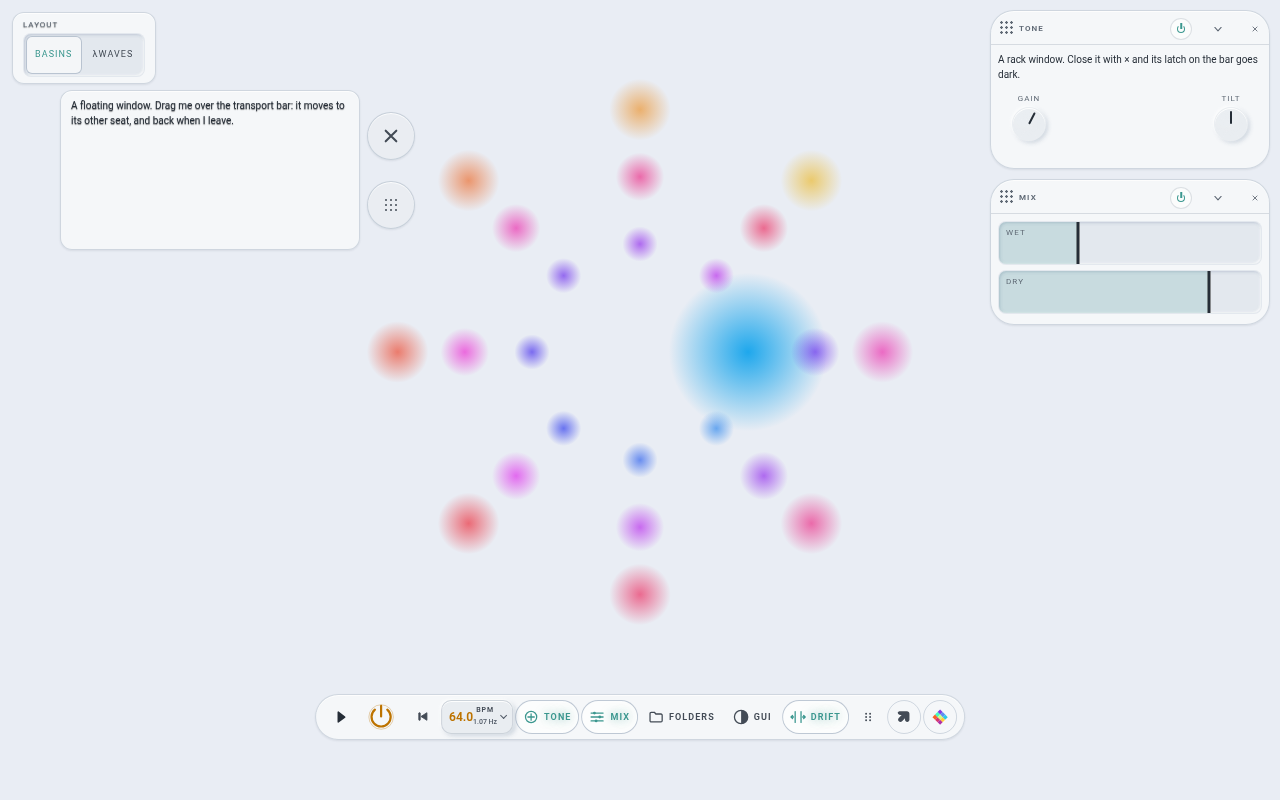
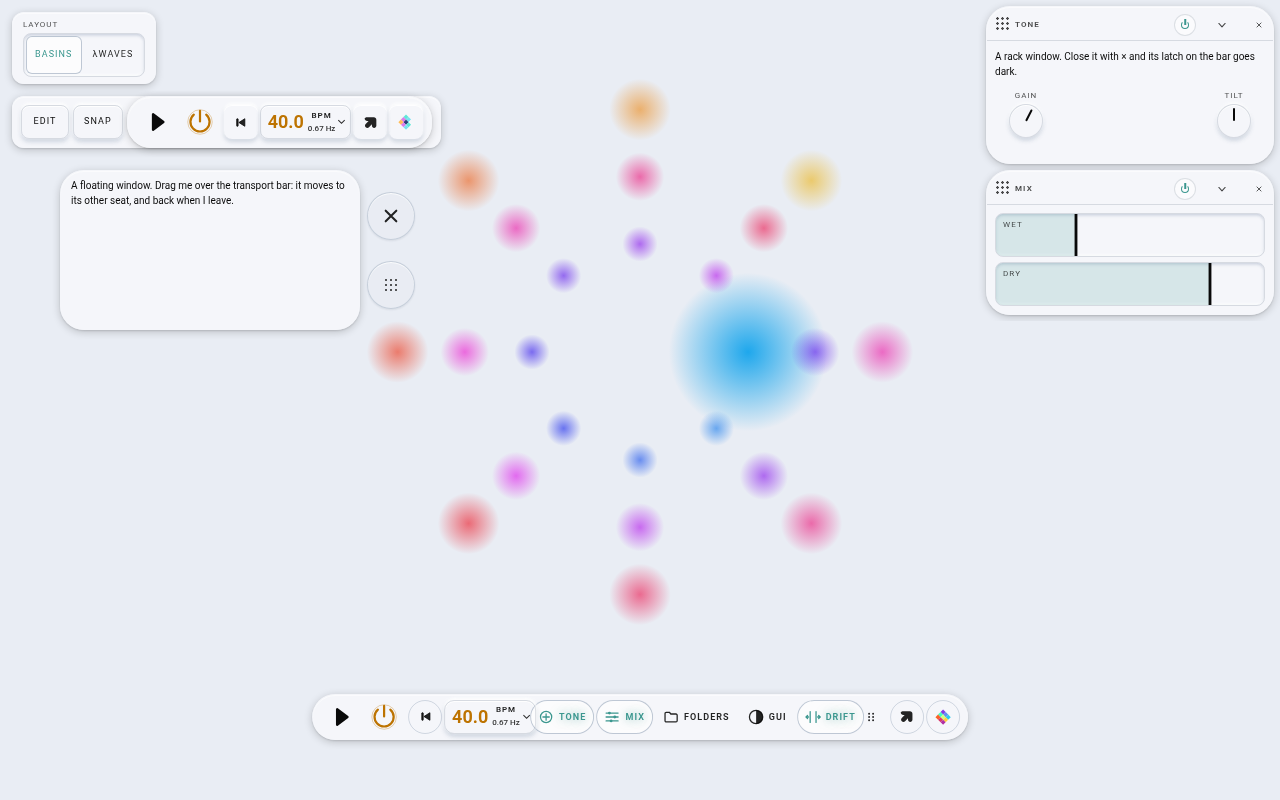
MIR 1.5.0-alpha.5: the transport — BASINS' bigger tempo and play
BASINS ui-fixes 8-11 (Josh 2026-10-01): the tempo 18 px (was 12), BPM/Hz 8 px (was 7),
the pill sized to its number (72 -> ~92 px); play's glyph 32 px (was 20) in a 40 px seat,
no face; to-start wears the dock chip's and the logo's hairline ring. New
createTransport({ bar: 'work' }): inside a work bar the to-start, send-to-rack and logo
seats take the bar's button face (.trig, 34 px, radius 8), 52 px tall with 3 px padding;
shown in a mock work bar on the gallery. COMPACT: play 22 px in 30, tempo 14 px.
Fix: two bars on a page shared one paint key. The pill-background test expects BASINS'
glass-faces drawing (both clear). 33/33 browser checks.

Claude-Session: https://claude.ai/code/session_01216PZJdRDXuZKuuo4X6KUw

diff --git a/mir/shell/transport.css b/mir/shell/transport.css
@@ -26,11 +26,16 @@
   --xport-h: 46px;                   /* the bar's height (BASINS: the modulation work bar's) */
   --xport-seat: 34px;                /* a round seat (BASINS skin.css:78) */
   --xport-power: 44px;               /* the power button's seat (BASINS transport-controls.css:17) */
-  --xport-pill-w: 72px;              /* the BPM pill (BASINS skin.css:447) */
+  --xport-pill-w: 72px;              /* the BPM pill's least width; it sizes to its number (BASINS ui-fixes 9: ≈ 90 px) */
   --xport-pill-r: 10px;              /* its corner (BASINS skin.css:87) */
   --xport-radius: 16px;              /* the bar's corner when CORNERS is at home (BASINS skin.css:66) */
-  --xport-num-size: 12px;            /* the tempo's number (BASINS skin.css:450) */
-  --xport-micro: 7px;                /* BPM and the Hz reading (BASINS skin.css:451–452) */
+  --xport-num-size: 18px;            /* the tempo's number (BASINS ui-fixes 9, --xport-tempo-size; was 12) */
+  --xport-micro: 8px;                /* BPM and the Hz reading (BASINS ui-fixes 9; was 7) */
+  --xport-play-size: 32px;           /* play's glyph (BASINS ui-fixes 10, --xport-play-size; was 20); its seat is the glyph + 8 */
+  --xport-work-seat: 34px;           /* a seat inside a work bar: the bar's button (BASINS ui-fixes 8, .tl-action) */
+  --xport-work-r: 8px;               /* … its corner */
+  --xport-work-h: 52px;              /* the transport inside a work bar: the tool bar's height (BASINS ui-fixes 8) */
+  --xport-work-pad: 3px 8px;         /* … and its padding (BASINS timeline-window.css: 44 px power seat + border = 52) */
   --xport-face: hsl(var(--glass-tint) / 1);                                   /* the pill's face: it stands proud */
   --xport-pill-rim: var(--glass-hairline);                                    /* the pill's hairline (BASINS) */
   --xport-pill-rim-hot: color-mix(in srgb, var(--acc2) 60%, transparent);     /* hovered / focused (BASINS skin.css:448) */
@@ -78,9 +83,9 @@
 .mir-transport :is(.tbtn, .dock-btn, .mod-exp, .transport-tempo-input):focus-visible { outline: var(--state-focus, 2px solid var(--acc)); outline-offset: 2px; }
 
 /* play: no face at all; its ink lights in accent A (BASINS transport-controls.css:3–14) */
-.mir-transport .tbtn.play { width: var(--xport-seat); color: var(--fg-soft); }
+.mir-transport .tbtn.play { width: calc(var(--xport-play-size) + 8px); height: calc(var(--xport-play-size) + 8px); min-height: calc(var(--xport-play-size) + 8px); color: var(--fg-soft); }
 .mir-transport .tbtn.play:is(.on, :hover) { background: transparent; color: var(--acc); }
-.mir-transport .tbtn.play svg { width: 20px; height: 20px; transition: transform var(--t-fast); }
+.mir-transport .tbtn.play svg { width: var(--xport-play-size); height: var(--xport-play-size); transition: transform var(--t-fast); }
 .mir-transport .tbtn.play:hover svg { transform: scale(1.08); }
 .mir-transport .tbtn.play:active svg { transform: scale(.94); }
 
@@ -97,20 +102,21 @@
 .mir-transport .mir-mod-power:active .mir-power-icon { transform: scale(.94); }
 .mir-transport .tbtn.mir-mod-power:focus-visible { outline: 1px solid var(--acc2); outline-offset: 2px; border-radius: var(--r-md); }
 
-/* the dock chip and the door to the modulation window (λWAVES lab.css:320–326, BASINS lab.css:327–333; no pane float) */
-.mir-transport :is(.dock-btn, .mod-exp) {
+/* the dock chip, the door to the modulation window and to-start: one set of round seats with a hairline ring (λWAVES
+   lab.css:320–326, BASINS lab.css:327–333 and ui-fixes 11; no pane float — INTENT) */
+.mir-transport :is(.dock-btn, .mod-exp, .tbtn.transport-home) {
   flex: 0 0 auto; width: var(--xport-seat); height: var(--xport-seat); padding: 0; border-radius: 50%; cursor: pointer;
   border: var(--glass-border) solid var(--glass-border-color); background: transparent; box-shadow: var(--xport-flat); color: var(--ink-key, var(--fg-soft));
   display: inline-flex; align-items: center; justify-content: center;
 }
 .mir-transport :is(.dock-btn, .mod-exp) > svg { width: 13px; height: 13px; filter: var(--xport-glyph-lift); }
 .mir-transport .mod-exp > svg.mark { width: 16px; height: 16px; }
-.mir-transport :is(.dock-btn, .mod-exp):hover { color: var(--fg); }
-.mir-transport :is(.dock-btn, .mod-exp):active { background: var(--state-press, var(--glass-press)); }
+.mir-transport :is(.dock-btn, .mod-exp, .tbtn.transport-home):hover { color: var(--fg); }
+.mir-transport :is(.dock-btn, .mod-exp, .tbtn.transport-home):active { background: var(--state-press, var(--glass-press)); }
 
 /* ── the BPM pill (BASINS skin.css:447–454); its rest is RAISED, not a well (INTENT, ruled) ─────────────────── */
 .mir-transport .tbtn.tempo-expand {
-  position: relative; order: 8; flex: 0 0 var(--xport-pill-w); width: var(--xport-pill-w); min-width: var(--xport-pill-w); height: var(--xport-seat); padding: 4px 15px 4px 7px;
+  position: relative; order: 8; flex: 0 0 auto; width: auto; min-width: var(--xport-pill-w); height: var(--xport-seat); padding: 4px 15px 4px 7px;
   display: grid; grid-template-columns: minmax(0, 1fr) auto; grid-template-rows: 1fr 1fr; column-gap: 4px; align-items: center;
   border: var(--glass-border) solid var(--xport-pill-rim); border-radius: var(--xport-pill-r);
   background: var(--xport-face); box-shadow: var(--relief-raise, var(--neu-raise)); color: var(--fg-soft); touch-action: none; cursor: ns-resize;
@@ -159,10 +165,20 @@
 .mir-transport .ro-val { color: var(--ink-key, var(--fg-soft)); font-size: var(--fs-micro); line-height: 1.15; white-space: nowrap; max-width: 100%; overflow: hidden; text-overflow: ellipsis; }
 
 /* ── COMPACT (ruled 2026-10-01): glyphs only, no TAP, no Hz reading ───────────────────────────────────────── */
-.mir-transport[data-form="compact"] { --xport-w: 0px; --xport-h: 40px; --xport-seat: 30px; --xport-power: 36px; --xport-pill-w: 52px; }
+.mir-transport[data-form="compact"] { --xport-w: 0px; --xport-h: 40px; --xport-seat: 30px; --xport-power: 36px; --xport-pill-w: 52px; --xport-play-size: 22px; --xport-num-size: 14px; }
 .mir-transport[data-form="compact"] :is(.tap, .tempo-hz, .tempo-unit, .tempo-chevron, .tr-open.has-glyph .tr-word, .fd, .ro, .k) { display: none; }
 .mir-transport[data-form="compact"] .tbtn.tempo-expand { grid-template-columns: 1fr; padding: 4px 6px; }
 .mir-transport[data-form="compact"] .tempo-number { justify-self: center; }
+
+/* ── IN A WORK BAR (`createTransport({ bar: 'work' })`, `data-bar="work"`): BASINS' timeline-mounted transport.  It sits
+   in the bar's flow, 52 px tall with 3 px of padding; to-start, send-to-rack and the logo carry `.trig` (the kit's button
+   face and relief) in the bar's 34 px, radius-8 box, so the GUI's look paints both bars alike (BASINS ui-fixes 8, 11) ── */
+.mir-transport[data-bar="work"] { position: static; transform: none; z-index: auto; width: max-content; min-width: 0; max-width: 100%;
+  height: auto; min-height: var(--xport-work-h); padding: var(--xport-work-pad); }
+.mir-transport[data-bar="work"] :is(.dock-btn, .mod-exp, .tbtn.transport-home).trig {
+  width: var(--xport-work-seat); height: var(--xport-work-seat); min-width: var(--xport-work-seat); min-height: var(--xport-work-seat); padding: 0;
+  border: 0; border-radius: var(--xport-work-r); background: var(--trig-face); box-shadow: var(--relief-raise, var(--neu-raise)); }
+.mir-transport[data-bar="work"] .tbtn.tempo-expand { height: var(--xport-work-seat); border-radius: var(--xport-work-r); }
 
 /* ── DOCKED: the bar in the rack's TRANSPORT window (BASINS / λWAVES lab.css:317) ──────────────────────────── */
 .mir-transport.docked { position: static; transform: none; min-width: 0; max-width: none; width: auto; height: auto; flex-wrap: wrap; padding: 6px; gap: 6px;

diff --git a/mir/shell/transport.js b/mir/shell/transport.js
@@ -55,6 +55,12 @@ const SEAT_HINT = { bottom: phrase('the bar at the bottom centre'), top: phrase(
 const PLAY_ACTION = 'transport.play';
 /** the rack window the bar docks into (BASINS / λWAVES `device({ id: 'transport', eyebrow: 'TRANSPORT' })`) */
 export const DOCK_ID = 'transport';
+/** the seats that wear a work bar's button face when the bar sits in one (BASINS transport-placement.js BAR_SEATS:
+ *  to-start, send-to-rack and the logo take `.trig` — the kit's button face — with the bar's 34 px, radius-8 box) */
+export const BAR_SEATS = '.transport-home, .dock-btn, .mod-exp';
+/** the bars a transport can sit in: 'float' (on the stage, BASINS `#transport.mini`) or 'work' (inside a work bar,
+ *  BASINS `timeline-mounted`: its seats are the bar's buttons) */
+export const BARS = Object.freeze(['float', 'work']);
 const SVG = 'http://www.w3.org/2000/svg';
 
 /* ── the pure part ─────────────────────────────────────────────────────────────────────────────────────────── */
@@ -431,6 +437,7 @@ export function layoutNames(list) {
 /* the docked seat: the bar in a rack window named TRANSPORT (BASINS transport-placement.js `docked`).  One window per
    rack, registered once; its hooks are forwarded to whichever bar is alive. */
 const docks = new WeakMap();
+let bars = 0;                                                       // bars made on this page (each paints under its own key)
 function dockOf(R) {
   let d = docks.get(R);
   if (!d) {
@@ -449,10 +456,12 @@ function dockOf(R) {
  *    clock       the ONE TRUE PLAY's clock: { play(), pause(), isPlaying(), toggle?(), onChange?(fn), seek?(beat) }
  *    mod         the modulation seam (installModulation's result): the power button, the door, the panel's clock tiles
  *    model, setBpm, persist   the tempo (createTempo)
+ *    bar         'float' (default: on the stage) or 'work' (inside a work bar: the to-start, send-to-rack and logo seats
+ *                take the bar's own button face, 34 px with radius 8, and the bar's padding is 3 px — BASINS' timeline)
  *    openers, rack, keys, store, key, opener, onRefused, onInterface, host, root, id — as in docs/TRANSPORT.md */
 export function createTransport({ layout = BASINS_LAYOUT, nodes = {}, host = globalThis.document && document.body, root = null, id = 'transport',
   clock = null, mod = null, model = MOD, setBpm = null, persist = null, openers = [], rack = null, keys = null, store = null,
-  key = 'mir.transport', opener = true, onRefused = null, onInterface = null } = {}) {
+  key = 'mir.transport', opener = true, onRefused = null, onInterface = null, bar: barKind = 'float' } = {}) {
   const doc = host.ownerDocument, view = doc.defaultView, body = doc.body;
   const life = new AbortController(), on = { signal: life.signal }, signal = life.signal;
   const S = store || localSeatStore(key);
@@ -484,7 +493,7 @@ export function createTransport({ layout = BASINS_LAYOUT, nodes = {}, host = glo
       case 'openers': openBox = el('div', 'tr-openers'); return openBox;
       case 'seat': seatB = tbtn('tr-seat'); setGlyph(seatB, 'grip', { label: 'Choose where the transport sits', size: 16 });
         seatB.title = 'Where the transport sits'; seatB.setAttribute('aria-haspopup', 'menu'); seatB.setAttribute('aria-expanded', 'false'); return seatB;
-      case 'dock': if (!rackOf() && typeof rack !== 'function') return null;
+      case 'dock':
         dockB = el('button', 'dock-btn'); dockB.type = 'button'; setGlyph(dockB, 'north', { label: 'Dock the transport into the rack' });
         dockB.title = 'Move the transport between the stage and the rack'; dockB.setAttribute('aria-pressed', 'false'); return dockB;
       case 'back': return null;                                     // the way back is always the bar's last child
@@ -507,6 +516,10 @@ export function createTransport({ layout = BASINS_LAYOUT, nodes = {}, host = glo
   place(layout, bar);
   const back = wayBack({ run: () => { if (onInterface) onInterface(); else { const R = rackOf(); if (R && typeof R.setInterface === 'function') R.setInterface(true); else body.classList.remove('ui-hidden'); } }, signal });
   bar.appendChild(back.root);
+  /* in a work bar, the round seats are the bar's buttons (BASINS transport-placement.js barFace) */
+  const work = barKind === 'work';
+  setAttr(bar, 'data-bar', work ? 'work' : 'float');
+  for (const b of bar.querySelectorAll(BAR_SEATS)) b.classList.toggle('trig', work);
 
   /* ── the latches, from data, redrawn only when the list changes ── */
   let latches = [], latchSig = '';
@@ -633,7 +646,8 @@ export function createTransport({ layout = BASINS_LAYOUT, nodes = {}, host = glo
     for (const p of parts) p.sync();
     for (const l of latches) l.p.sync();
   }
-  const soon = () => frame.coalesce('mir.transport.sync', sync);
+  const syncKey = 'mir.transport.sync:' + (++bars);                 // one paint per bar: two bars on a page never share a job
+  const soon = () => frame.coalesce(syncKey, sync);
   view.addEventListener('click', soon, on);
   view.addEventListener('keyup', soon, on);
   doc.addEventListener('devopen', soon, on);
@@ -671,7 +685,7 @@ export function createTransport({ layout = BASINS_LAYOUT, nodes = {}, host = glo
       const R = rackOf(); const d = R && docks.get(R); if (d) { d.open = null; d.close = null; }
       if (docked && bar.parentElement !== stageHost) stageHost.appendChild(bar);
       for (const n of made) n.remove();
-      if (!made.includes(bar)) { bar.textContent = ''; bar.classList.remove('mir-transport', 'mini', 'docked', 'tempo-open'); for (const a of ['data-home', 'data-form']) bar.removeAttribute(a); delete bar.dataset.opener; }
+      if (!made.includes(bar)) { bar.removeAttribute('data-bar'); bar.textContent = ''; bar.classList.remove('mir-transport', 'mini', 'docked', 'tempo-open'); for (const a of ['data-home', 'data-form']) bar.removeAttribute(a); delete bar.dataset.opener; }
     },
   };
 }

diff --git a/gallery/transport.html b/gallery/transport.html
@@ -36,6 +36,9 @@
   #winlayer > * { pointer-events: auto; }
   .g-note { font-size: var(--fs-small); color: var(--fg-soft); line-height: 1.5; margin: 0 0 6px; }
   #layoutSwitch { position: absolute; left: 12px; top: 12px; z-index: 31; padding: 6px 10px; border-radius: var(--r-lg); }
+  /* a mock WORK BAR (BASINS' timeline tool bar): two ordinary work-bar buttons beside a transport in its `work` form */
+  #workbar { position: absolute; left: 12px; top: 96px; z-index: 31; display: flex; align-items: center; gap: 4px; height: 52px; padding: 4px 8px; box-sizing: border-box; border-radius: var(--r-lg); }
+  #workbar > .trig { height: 34px; min-height: 34px; padding: 0 10px; border-radius: 8px; }
 </style>
 </head>
 <body data-theme="dark" data-card="tinted" class="disconnected">
@@ -43,6 +46,7 @@
   <div id="stage"><canvas id="ground" aria-hidden="true"></canvas></div>
   <div id="layoutSwitch" class="glass"></div>
   <div id="transport"></div>
+  <div id="workbar" class="glass"><button class="trig g-wb" type="button" data-wb="edit"><span class="trig-l">EDIT</span></button><button class="trig g-wb" type="button" data-wb="snap"><span class="trig-l">SNAP</span></button><div id="transportWork"></div></div>
   <div id="winlayer"></div>
 </div>
 <script type="module">
@@ -176,7 +180,11 @@ $('layoutSwitch').appendChild(seg({ label: 'LAYOUT', value: layoutName, options:
 frame.coalesce('gallery:draw', draw);   // after the GUI's preferences have painted the theme
 
 if (q.get('lang')) { addLocales(new URL('../mir/locales/', location.href).href); await setLanguage(q.get('lang')); }
-window.__T = { tr, rack, mod, folders, gui, drift, clock, keys, perf, motion, M, first, flip, get beats() { return beats; }, get layout() { return layoutName; } };
+/* ── the same parts in a work bar: `bar: 'work'` — to-start, send-to-rack and the logo take the bar's button face ── */
+const work = createTransport({ root: $('transportWork'), bar: 'work', opener: false, clock, mod, key: 'mir.gallery.transport.work',
+  layout: [{ group: 'native-play-row', items: ['play', 'power', 'rewind', 'tempo'] }, 'dock', 'door'] });
+work.start();
+window.__T = { work, tr, rack, mod, folders, gui, drift, clock, keys, perf, motion, M, first, flip, get beats() { return beats; }, get layout() { return layoutName; } };
 window.__ready = true;
 </script>
 </body>

diff --git a/docs/TRANSPORT.md b/docs/TRANSPORT.md
@@ -72,22 +72,25 @@ It returns `{ root, layout, parts, el: { play, power, door, pill, field, panel, 
 |---|---|
 | The bar on the stage: `#transport.mini`, 46 px tall, 60 px up from the bottom, centred, 640 px wide (wider when its parts need it), 2 px gaps | BASINS' |
 | The round seats: 34 px, flat, `--ink-key`; hover is a lighter face and `--fg` | BASINS' |
-| **Play**: no face; its ink lights in accent A while playing; the glyph swaps ▶ / ❚❚ and scales 1.08 on hover, .94 when pressed; `aria-label` "Play or pause" | BASINS' |
+| **Play**: no face and no ring; its glyph is 32 px (`--xport-play-size`, was 20) in a 40 × 40 seat (the glyph + 8); its ink lights in accent A while playing; the glyph swaps ▶ / ❚❚ and scales 1.08 on hover, .94 when pressed; `aria-label` "Play or pause" | BASINS' (ui-fixes 10, Josh 2026-10-01: "way bigger and still have no background") |
 | **Play is the only thing that starts or stops time** | ruled by Josh 2026-10-01 |
 | **Modulation's power**: the ring-and-stem glyph in a 44 px seat; off, the ring opens and dims; on, it closes and lights in accent B with its halo; a press is `mod.arm(!mod.armed())`, BASINS' `toggleModulation` | BASINS' (and ruled by Josh 2026-10-01: a power button, not a play) |
 | **The door** to the modulation window: the MIR mark in a 34 px round seat with a hairline (`.mod-exp.mod-logo`) | BASINS' / λWAVES' |
-| **The BPM pill**: 72 px, the number in accent B (12 px), BPM and the Hz reading (7 px), the chevron, a hairline that warms to accent B on hover and when the panel is open | BASINS' |
+| **The BPM pill**: sized to its number, at least 72 px (about 92 px at 30.0); the number in accent B at 18 px (`--xport-num-size`, was 12), BPM and the Hz reading 8 px (was 7), the chevron, a hairline that warms to accent B on hover and when the panel is open. The digit under the pointer is read from the number's own glyph boxes, so the drag and the wheel follow the size | BASINS' (ui-fixes 9, Josh 2026-10-01: "increase the size of the BPM thingy") |
 | The pill's drag (the digit under the pointer is the step; 9 px a step, a finger 14 px in ones), its wheel (by the digit under the pointer), its keys (↑ → up, ↓ ← down, Shift a tenth, PageUp/PageDown ten) | BASINS' |
 | A click on the pill opens the **tempo panel**: TAP, WALL / FREE, the cadence, ÷2 ×2 ×4 (hold to bend, tap to latch), HOLD ¼, HOLD 1 | BASINS' (λWAVES has the same panel) |
 | **TAP's place**: in the tempo panel | BASINS' |
 | **The resting pill stands proud** (its own face and the raised relief), not a well | ruled by Josh 2026-10-01 (INTENT: BASINS' rested in a well and read as already pressed) |
 | A double click on the pill types the tempo, in a well in the pill's seat (Enter or leaving takes it, Escape does not) | the kit's (BASINS types the tempo only in its timeline form) |
 | **The dock chip** (`.dock-btn`, the north glyph): the bar goes into a rack window named TRANSPORT and back | BASINS' / λWAVES' |
-| The dock chip and the door wear no pane shadow | ruled (INTENT: a button never wears a pane's float; BASINS gave them `--glass-shadow`) |
+| **To-start** (`.transport-home`) is one of the round seats: 34 px with the dock chip's and the door's hairline ring | BASINS' (ui-fixes 11, Josh 2026-10-01) |
+| The dock chip, the door and to-start wear no pane shadow | ruled (INTENT: a button never wears a pane's float; BASINS gave them `--glass-shadow`) |
+| **In a work bar** (`bar: 'work'`): to-start, send-to-rack and the logo take the bar's button face (`.trig`) in a 34 × 34, radius-8 box; the pill is 34 px tall; the transport is 52 px tall with 3 px padding | BASINS' (ui-fixes 8 and 11, Josh 2026-10-01: "match the button style and size of the right work bar") |
 | The dodge: the bottom seat unless a floating window covers it, then the top | BASINS' / λWAVES' (the rack's `dodge`) |
 | **λWAVES' bar**: play, power, rewind, ‹ ›, the scrub as a thin line, ⟳, the stacked readouts, the small RATE knob, the pill, then dock and door | λWAVES' (lab/rack.js §25, skin.css §12), with its MOD word replaced by the power button (ruled) |
 | **The window latches** (a glyph and a word; lit with the frost face and the label in accent A; a press toggles the window) | ruled by Josh 2026-10-01 (the kit's) |
 | **The seats BOTTOM, TOP, COMPACT** and the ⠿ menu (a right click or a long press opens it too); COMPACT: glyphs only, no TAP, no Hz reading | ruled by Josh 2026-10-01 (the kit's) |
+| COMPACT's sizes (40 px tall): play's glyph 22 px in a 30 px seat, the tempo 14 px, the pill at least 52 px | the kit's (not ruled) |
 | **The way back** under H on a touch screen | ruled by Josh 2026-10-01 (the kit's) |
 | The focus ring on the seats (`--state-focus`), and on the power button BASINS' 1 px accent-B outline | the kit's / BASINS' |
 
@@ -109,6 +112,10 @@ Every look value of the bar is the kit's, so the GUI window restyles it with no 
 | SHADOW, the tier | flat tier: no shadow, no blur, no relief | `--surface-shadow`, the tier's tokens |
 
 `tests/transport.browser.mjs` checks every row in both layouts. BASINS' own numbers (the bar's width and height, the seats, the pill) are `--xport-*` tokens declared on `.mir-transport`, so a skin can change them.
+
+## In a work bar
+
+`createTransport({ bar: 'work' })` (`data-bar="work"` on the bar; `BARS` is `['float', 'work']`) is BASINS' timeline-mounted transport: the bar sits in its host's flow (no seat, no dodge), 52 px tall with 3 px of padding, and the seats named in `BAR_SEATS` (to-start, send-to-rack, the logo) carry `.trig`, the kit's button face, so the GUI's look paints them exactly as it paints the work bar's own buttons. `gallery/transport.html` shows one in a mock work bar beside two ordinary work-bar buttons (EDIT, SNAP); the test checks that the three seats match them in size, corner, face and relief. The timeline itself (and its tempo panel opening above or below the bar) is not in the kit yet.
 
 ## The opener law
 
@@ -149,7 +156,7 @@ Every look value of the bar is the kit's, so the GUI window restyles it with no 
 ## Proofs
 
 - `tests/transport.node.mjs` (8 groups): the step under a pointer, the clamp and the tenth, BASINS' drag and keys, a typed tempo, the seats, `firstRun`, the openers, the key-table row, the two layouts (one play each, no second play), `createTempo`.
-- `tests/transport.browser.mjs` on `gallery/transport.html`, real CDP pointer, wheel and keys, every press hit-tested with `elementFromPoint`: first run; 30.0 and 72 px; play runs the clock; **the power button toggles modulation and never the clock, and play never the power**; the drag by tens, tenths and ones; the wheel; BASINS' keys; a click opens the tempo panel and TAP there sets the tempo; a double click types it; the resting pill is not a well and the field is; latches and closing from the window; the door; the dodge; the dock chip, in and out; **the settings check in both layouts** (card, frost, BLUR, CORNERS, RELIEF, the flat tier); the λWAVES layout from the switch, its one play; H; idle; the seat and the layout across a reload; `qps`.
+- `tests/transport.browser.mjs` on `gallery/transport.html`, real CDP pointer, wheel and keys, every press hit-tested with `elementFromPoint`: first run; 30.0; BASINS' new sizes (the tempo 18 px, BPM / Hz 8 px, the pill about 90 px, play's 32 px glyph in a 40 px seat with no face, to-start's ring); the work-bar match; play runs the clock; **the power button toggles modulation and never the clock, and play never the power**; the drag by tens, tenths and ones; the wheel; BASINS' keys; a click opens the tempo panel and TAP there sets the tempo; a double click types it; the resting pill is not a well and the field is (under GLASS faces both are clear, as BASINS draws them); latches and closing from the window; the door; the dodge; the dock chip, in and out; **the settings check in both layouts** (card, frost, BLUR, CORNERS, RELIEF, the flat tier); the λWAVES layout from the switch, its one play; in λWAVES' layout and in COMPACT, after the size change, the wheel on the tens digit, a click opening the panel, and play; H; idle; the seat and the layout across a reload; `qps`.
 - Plates (`MIR_PLATES=1`): `docs/plates/transport/transport-first-run.png`, `transport-basins-dark.png`, `transport-basins-light.png`, `transport-lambdawaves-dark.png`, `transport-lambdawaves-light.png`.
 
 **Not proven:** the way back on a real touch screen (the CSS rule is on `any-pointer: coarse`; the headless run is a fine pointer), the long press, WebKit and a real iPad, a screen reader.
